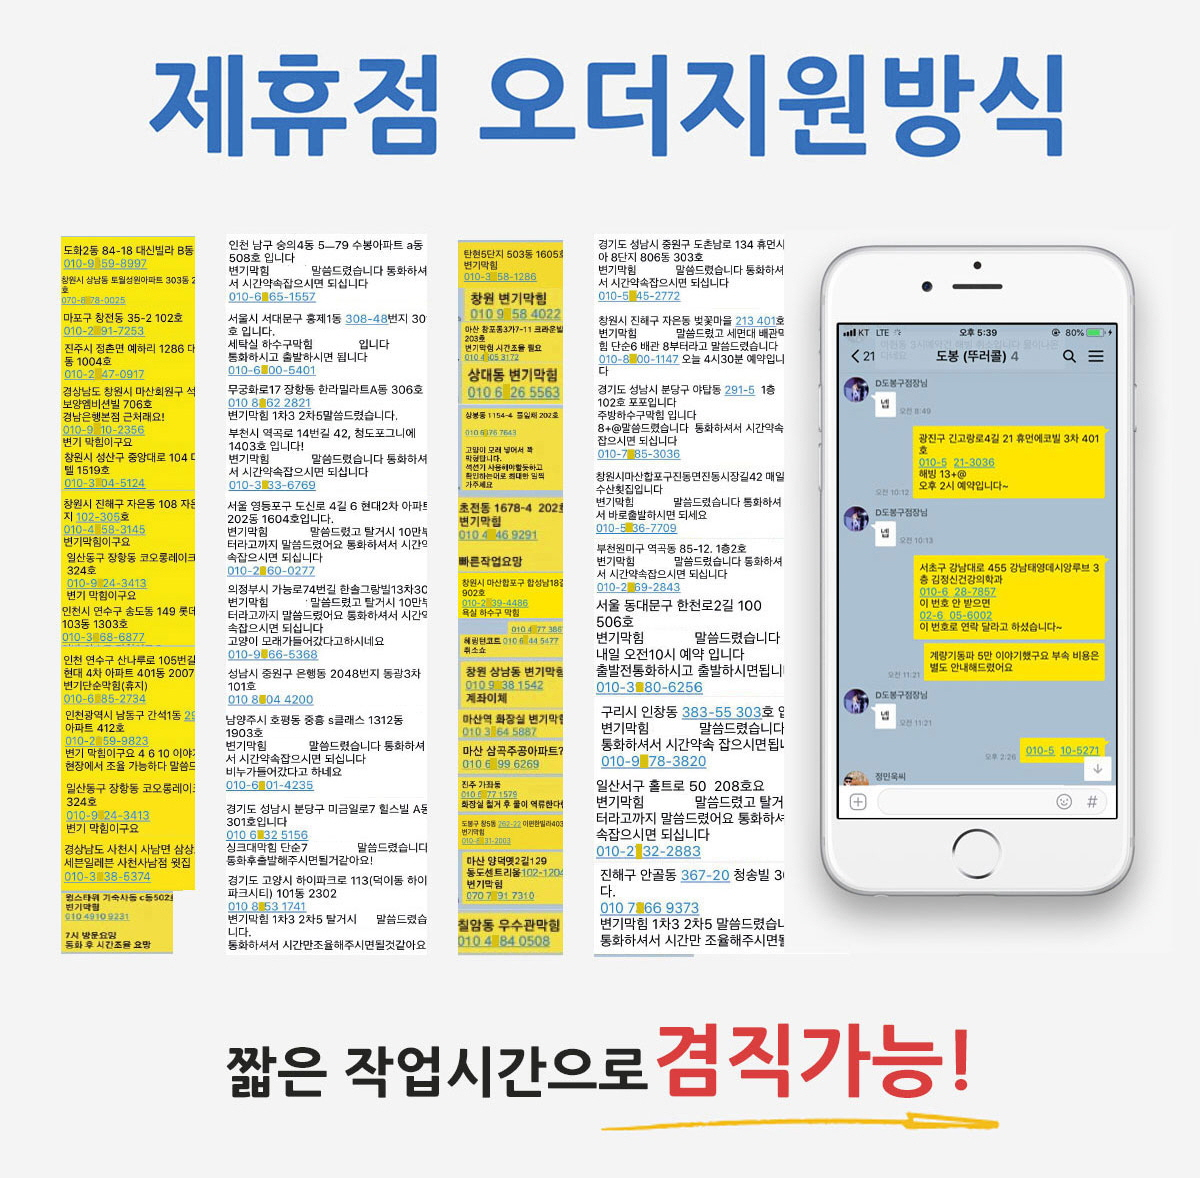
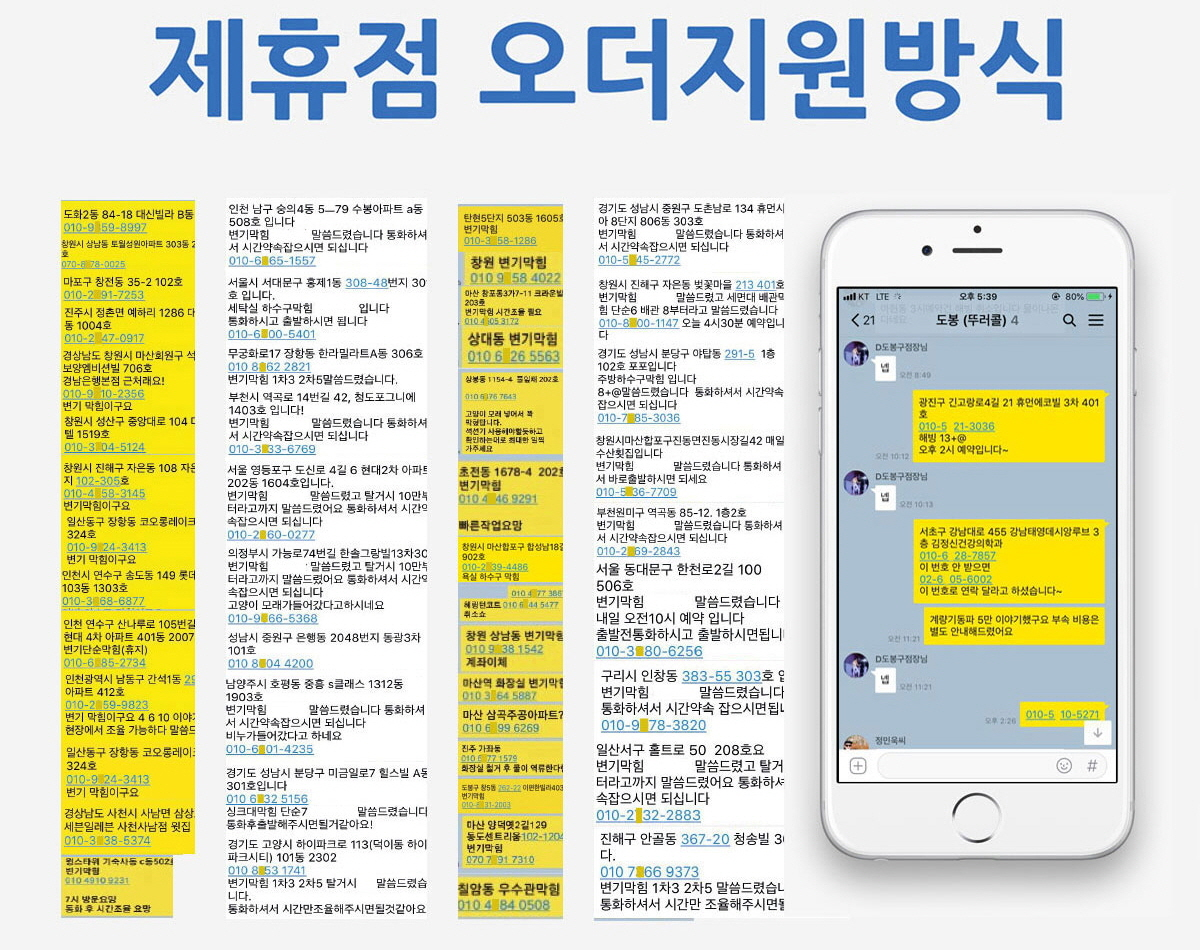
이미지 위치교체및 body 3번추가

diff --git a/ddrcall/index.html b/ddrcall/index.html
@@ -116,24 +116,26 @@ $(".news-container").vTicker({
                         <td class="body_txt">또한 많은 자영업은 폐업하고 있으며 직장인들은 더 많은 수입을 얻기 위해 투잡으로 일을 하는 경우도 허다하다.</td>
                      </tr>
                      <tr>
-                        <td class="body_txt">
-                           <center><a href="#db"><img src="m-img/body_1.jpg" width="100%" /></a></center>
-                        </td>
-                     </tr>
-                     <tr>
                         <td class="body_txt">이러한 가운데 ㈜깨끗한 연구소의 뚜러콜 변기/하수구 배관 전문 시공 1위 업체에서 제휴점을 모집하고 있는데 큰 배관시장 유망 아이템으로 경기를 타지 않은 평생사업으로 소자본창업, 무점포창업을 희망하는 이들에게 관심을 받고 있다.</td>
                      </tr>
+                     <tr>
+                        <td class="body_txt">
+                           <center><a href="#db"><img src="m-img/body_2.png" width="100%" /></a></center>
+                        </td>
+                     </tr>
+                     
                      <tr>
                         <td class="body_txt">뚜러콜은 우리가 사는 곳, 생활하는 곳 어디서나 배관이 막힐 수 있는데 이를 잘 모르는 일반 소비자들에게 전문가가 직접 전국 어디서나 시공해주고 투명하고 합리적인 가격으로 수리를 받을 수 있는 서비스이다.</td>
                      </tr>
                      <tr>
-                        <td class="body_txt">
-                            <center><a href="#db"><img src="m-img/body_2.png" width="100%" /></a></center>
-                        </td>
-                     </tr>
-                     <tr>
                         <td class="body_txt">이에 뚜러콜 창업은 소자본 무점포 창업으로 초보자도 짧은 기간에 가능할 뿐 아니라 영업지원을 받을 수 있고 인건비 걱정이 없는 것이 큰 장점으로 꼽힌다.</td>
                      </tr>
+                     <tr>
+                        <td class="body_txt">
+                            <center><a href="#db"><img src="m-img/body_1.jpg" width="100%" /></a></center>
+                        </td>
+                     </tr>
+                     
                      <tr>
                         <td class="body_txt">또한 본사 교육프로그램과 장비부터 마케팅까지 완벽하게 지원을 하기 때문에 부담 없이 누구나 도전할 수 있는 창업아이템으로 본사 이벤트와 오더지원 등으로 월 500만원 고수익이 가능하다.
                         </td>
@@ -144,6 +146,11 @@ $(".news-container").vTicker({
                      </tr>
                      <tr>
                         <td class="body_txt">더불어 뚜러콜 창업문의는 전국 어디서나 가능하며 유선전화 및 홈페이지를 통해 자세한 상담 가능하며, 실제 창업주들의 성공사례도 확인해볼 수 있다.
+                        </td>
+                     </tr>
+                     <tr>
+                        <td class="body_txt">
+                            <center><a href="#db"><img src="m-img/body_3.png" width="100%" /></a></center>
                         </td>
                      </tr>
                      <TD>
